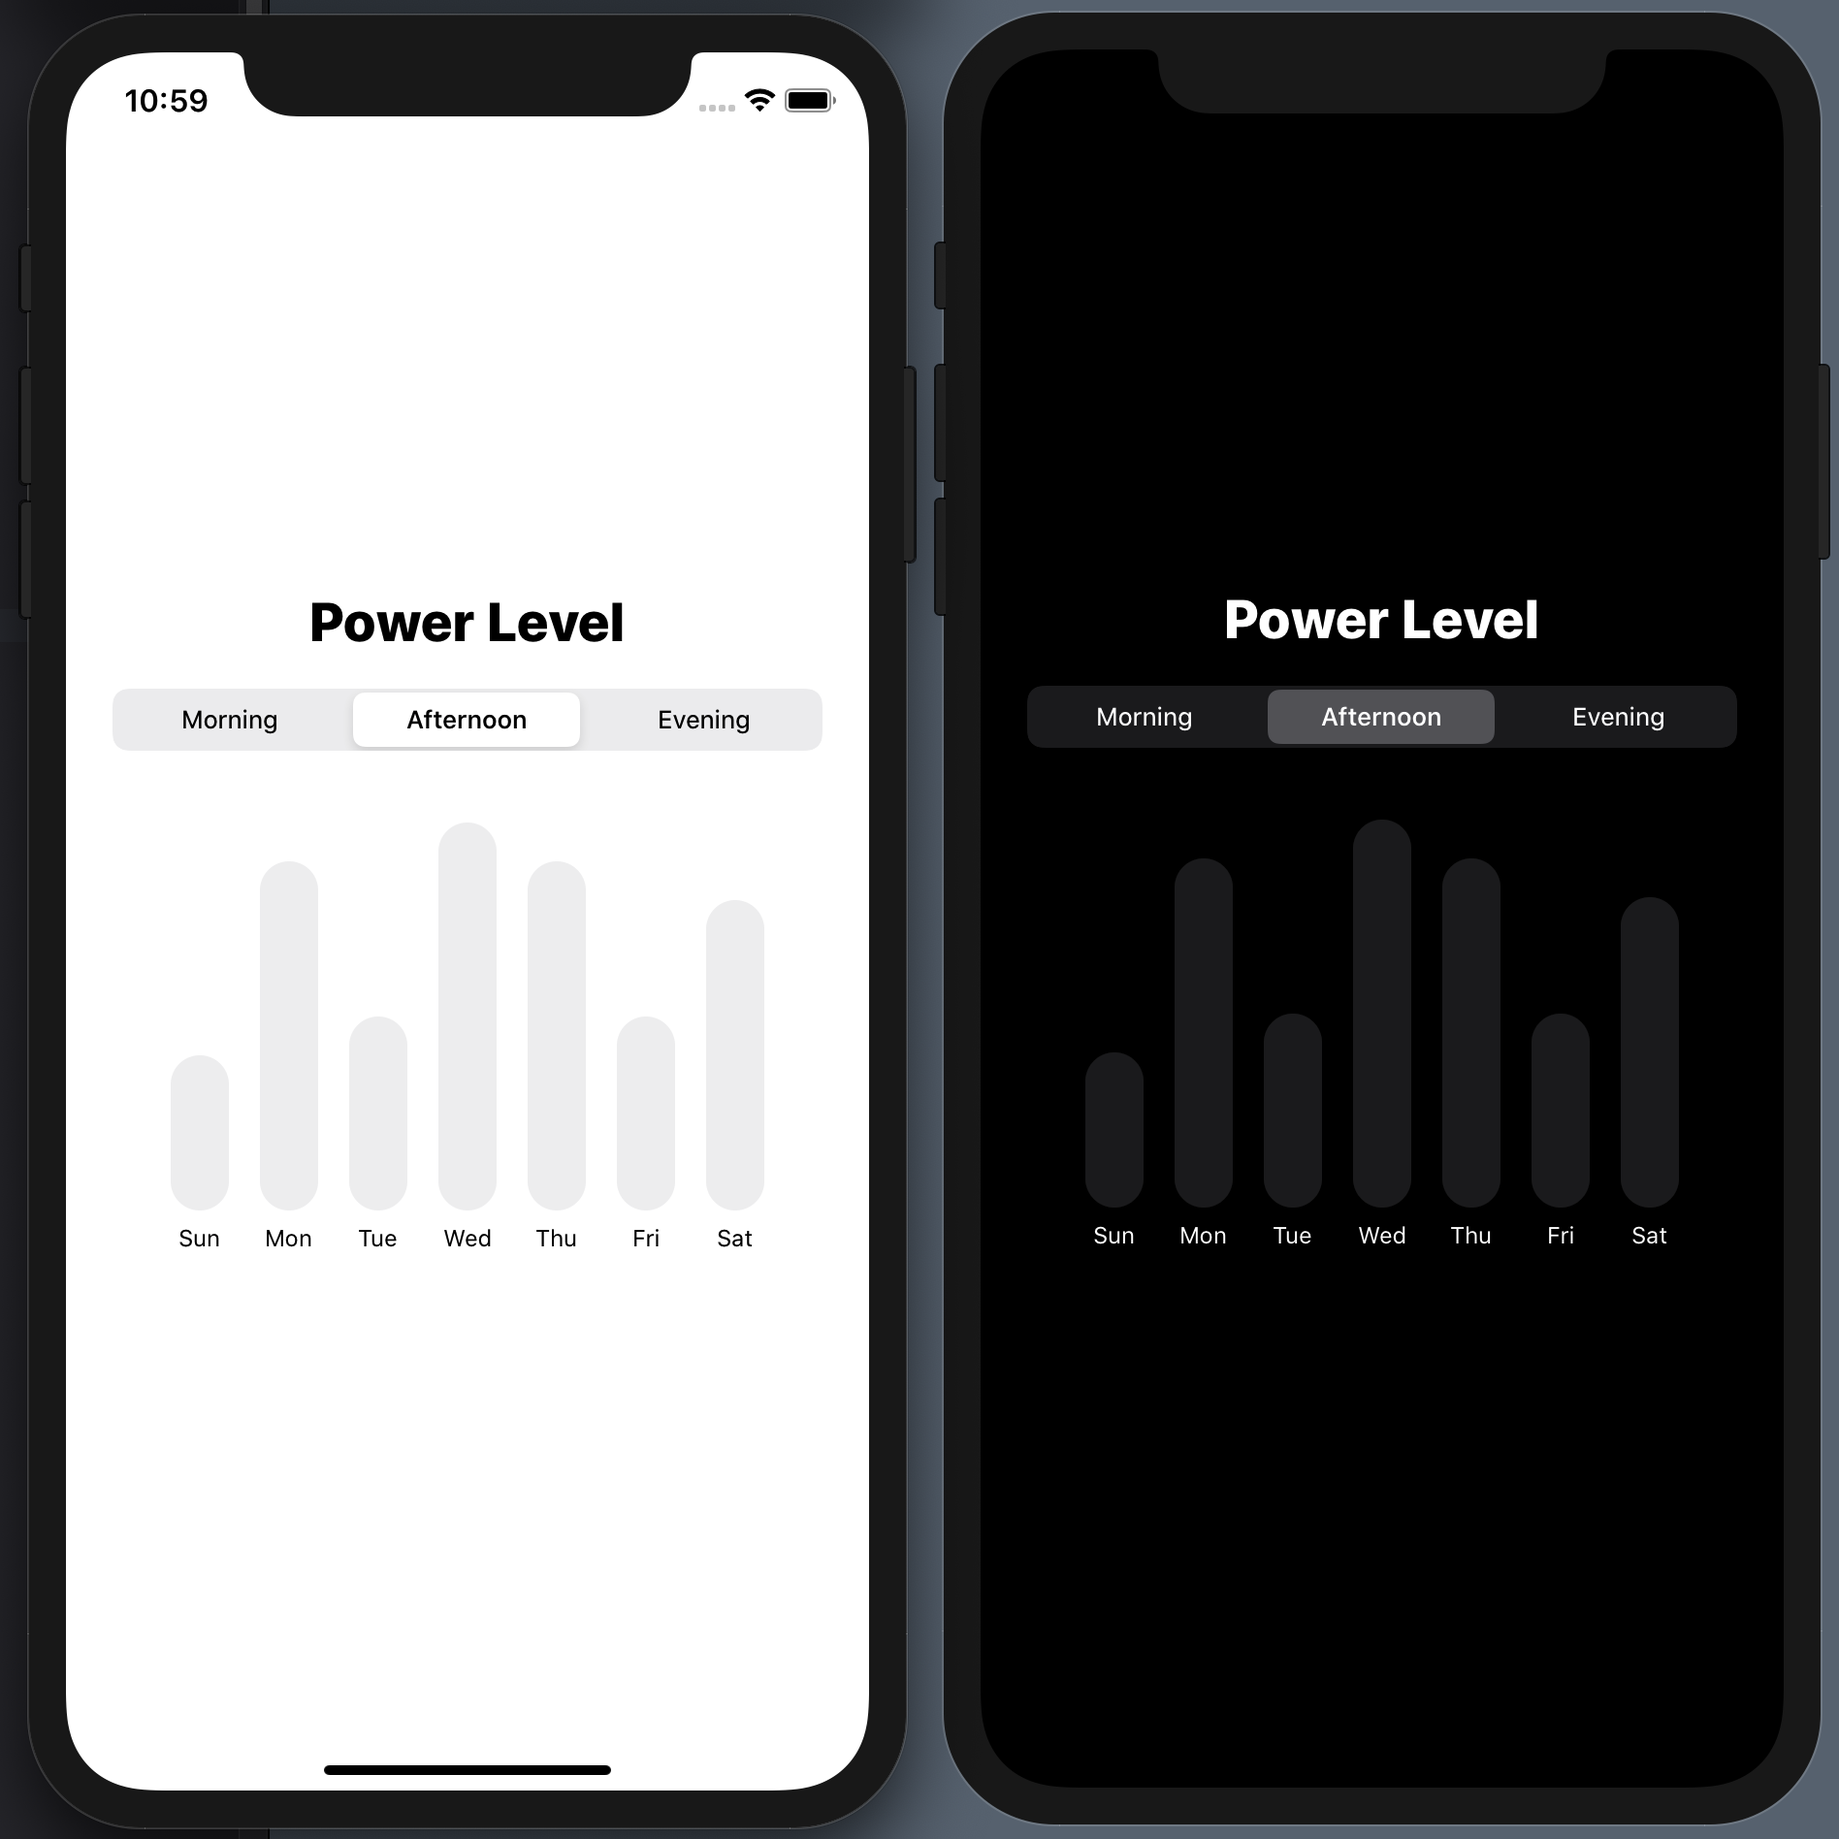
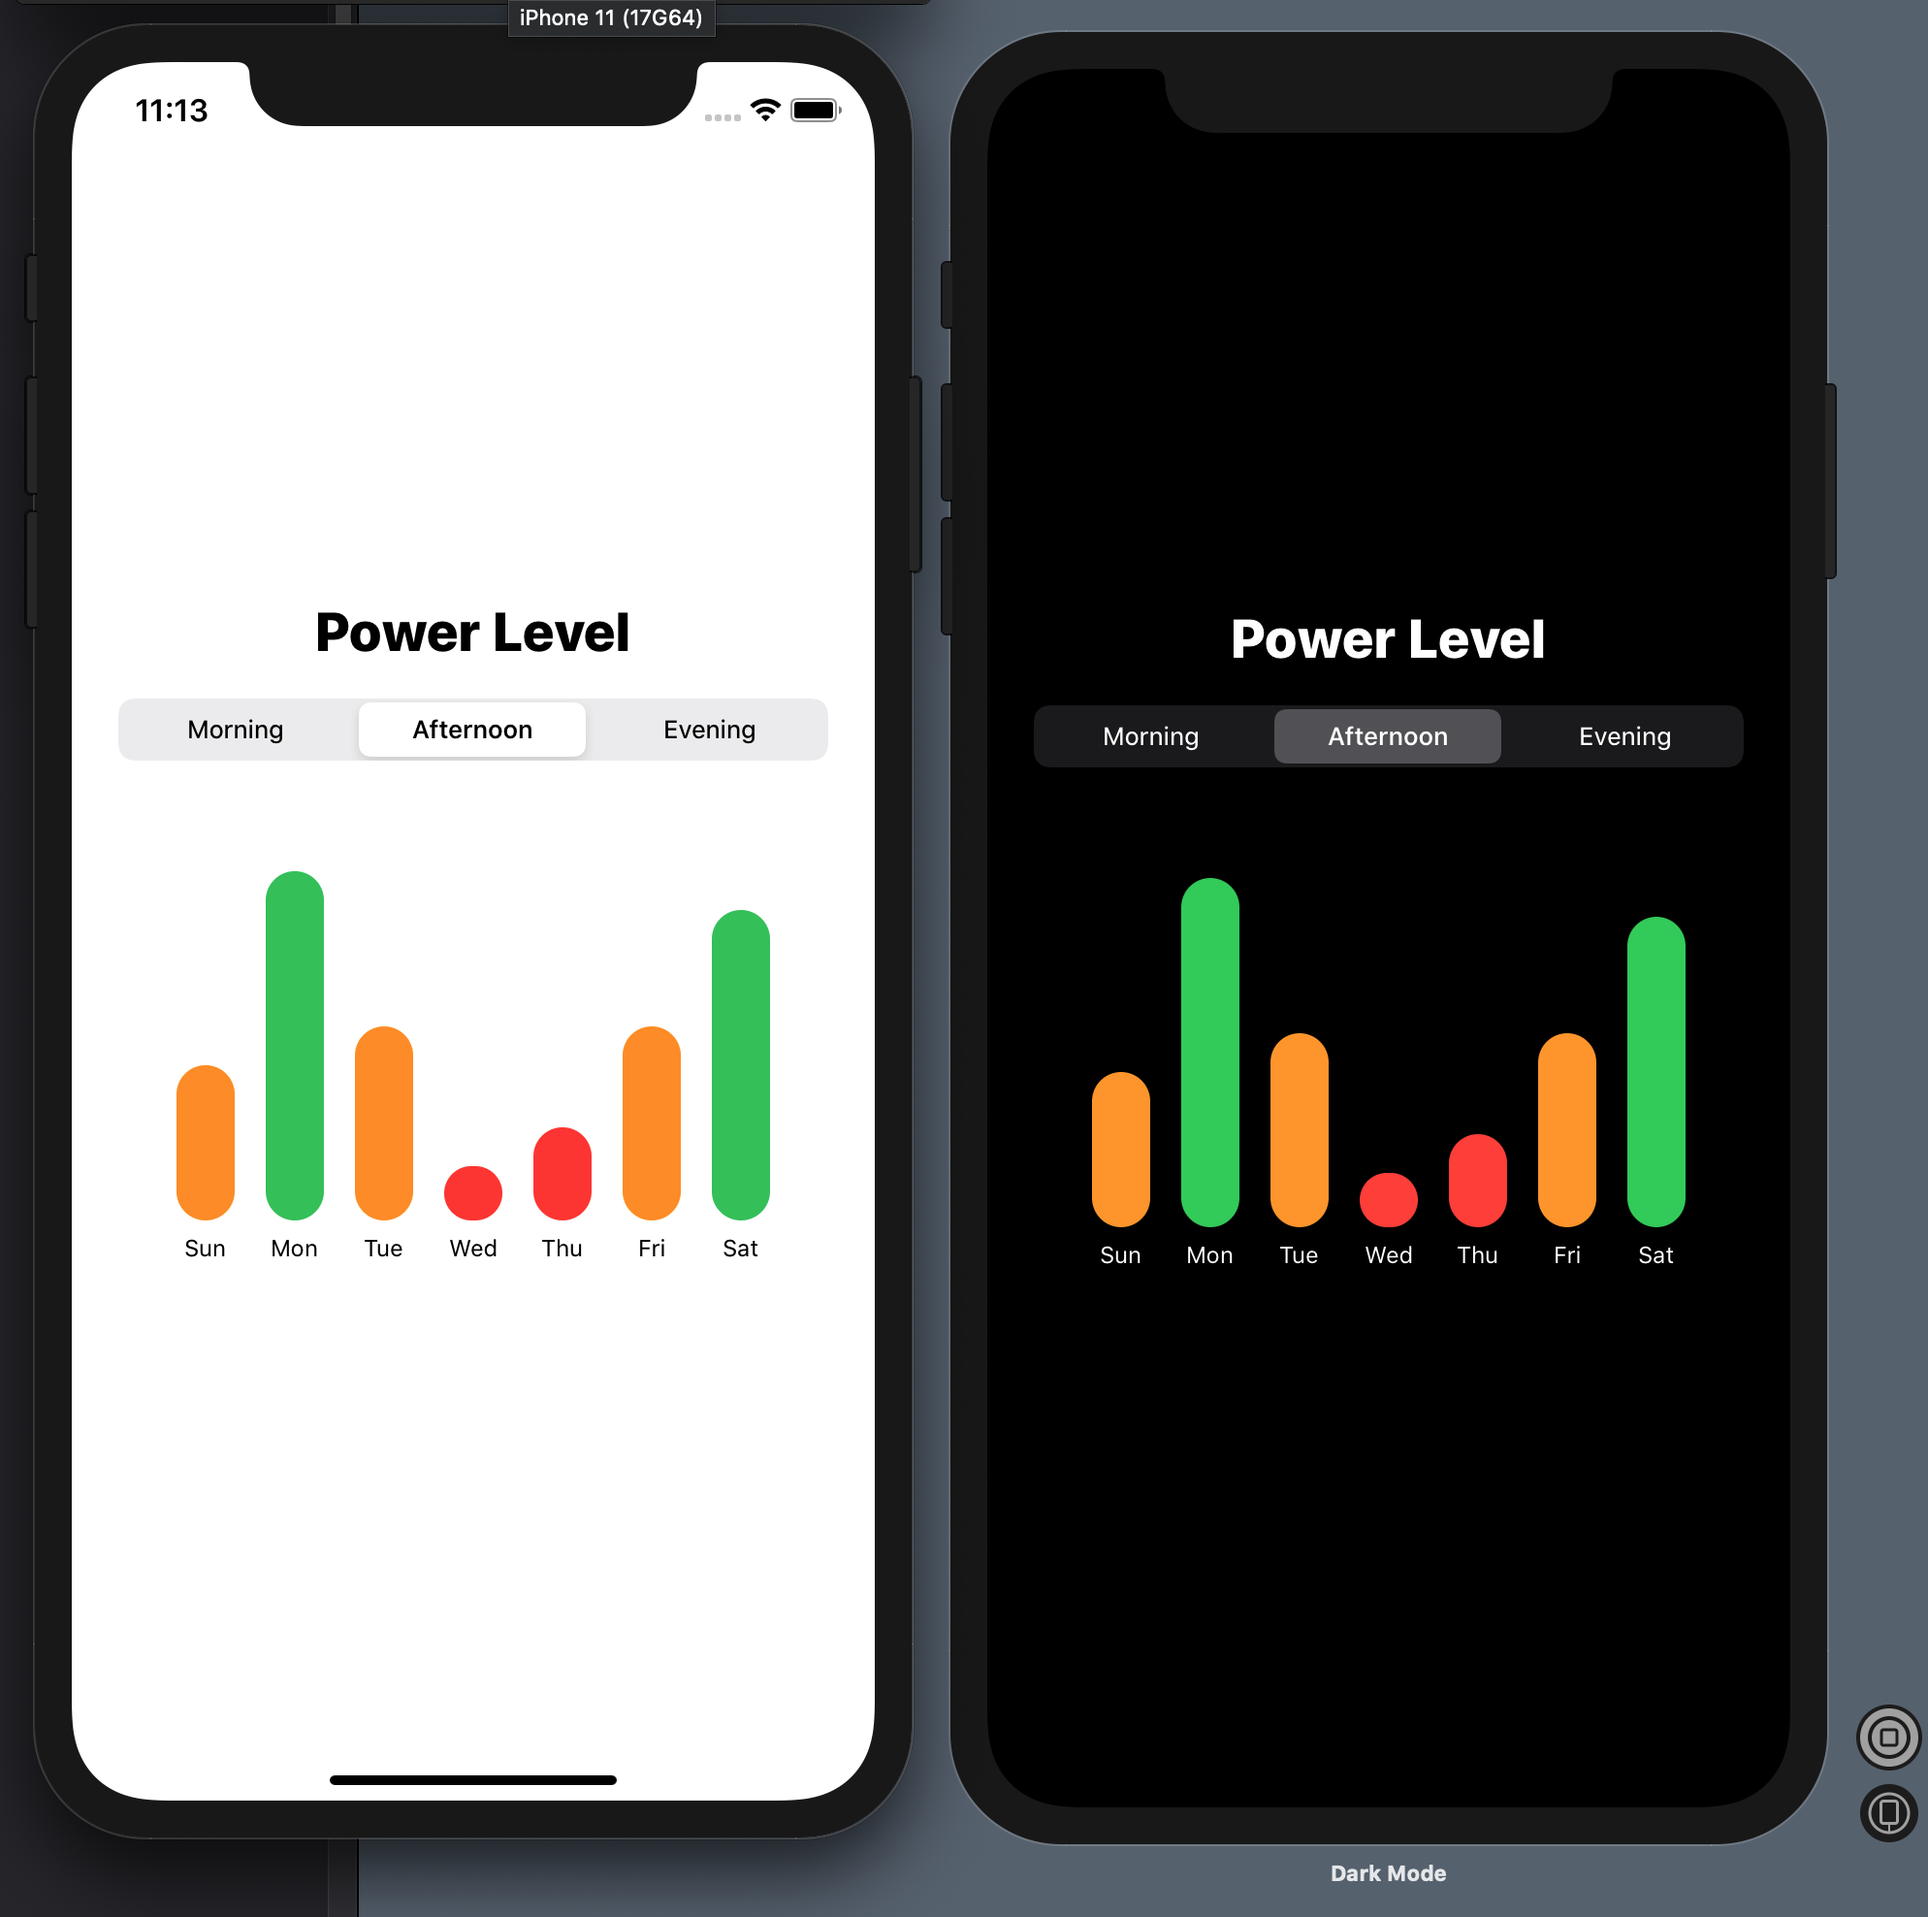
Updated screenshot

diff --git a/ui-barchart/ContentView.swift b/ui-barchart/ContentView.swift
@@ -13,8 +13,8 @@ struct ContentView: View {
     @State var pickerSelectedItem = 1
     
     @State var data: [[CGFloat]] = [
-        [1.0, 0.9, 0.5, 1.0, 0.9, 0.5, 0.8],
-        [0.4, 0.9, 0.5, 1.0, 0.9, 0.5, 0.8],
+        [1.0, 0.9, 0.5, 0.15, 0.9, 0.5, 0.8],
+        [0.4, 0.9, 0.5, 0.14, 0.24, 0.5, 0.8],
         [0.7, 0.9, 0.5, 1.0, 0.9, 0.5, 0.8]
     ]
     
@@ -56,6 +56,19 @@ struct BarView: View {
     @State var value: CGFloat
     let label: String
     
+    var barColor: Color {
+        get {
+            switch value {
+            case ...0.25:
+                return Color(.systemRed)
+            case 0.25...0.5:
+                return Color(.systemOrange)
+            default:
+                return Color(.systemGreen)
+            }
+        }
+    }
+    
     var body: some View {
         VStack {
             ZStack(alignment: .bottom) {
@@ -65,12 +78,13 @@ struct BarView: View {
                 
                 Capsule()
                     .frame(width: 30, height: 200 * value, alignment: .center)
-                    .foregroundColor(Color(.tertiarySystemFill))
+                    .foregroundColor(barColor)
             }
             
             Text(label).font(.caption)
         }
     }
+    
 }
 
 struct ContentView_Previews: PreviewProvider {
